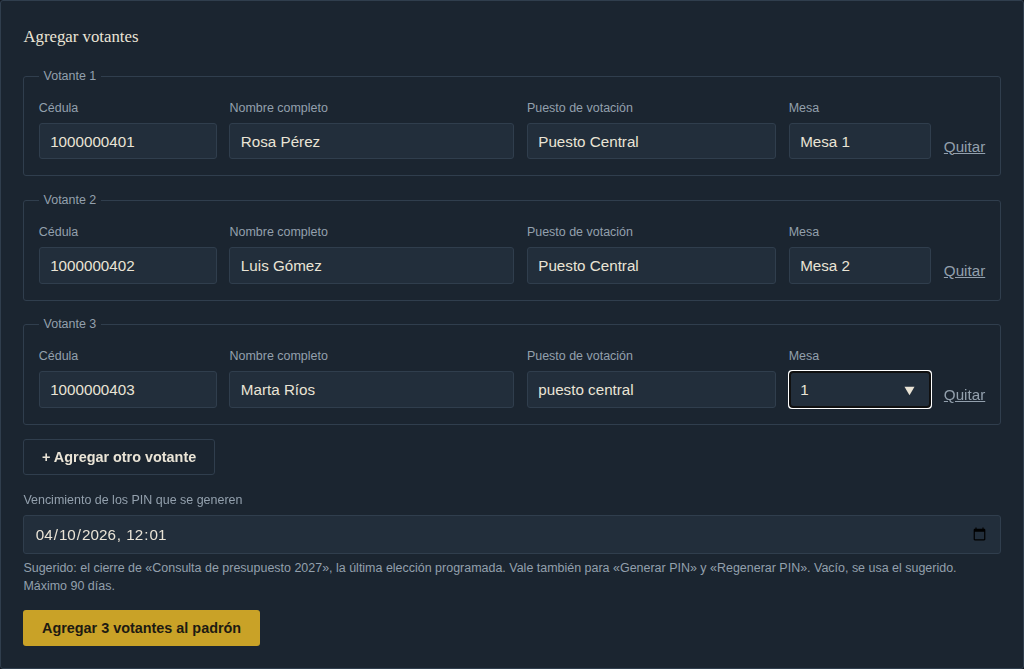
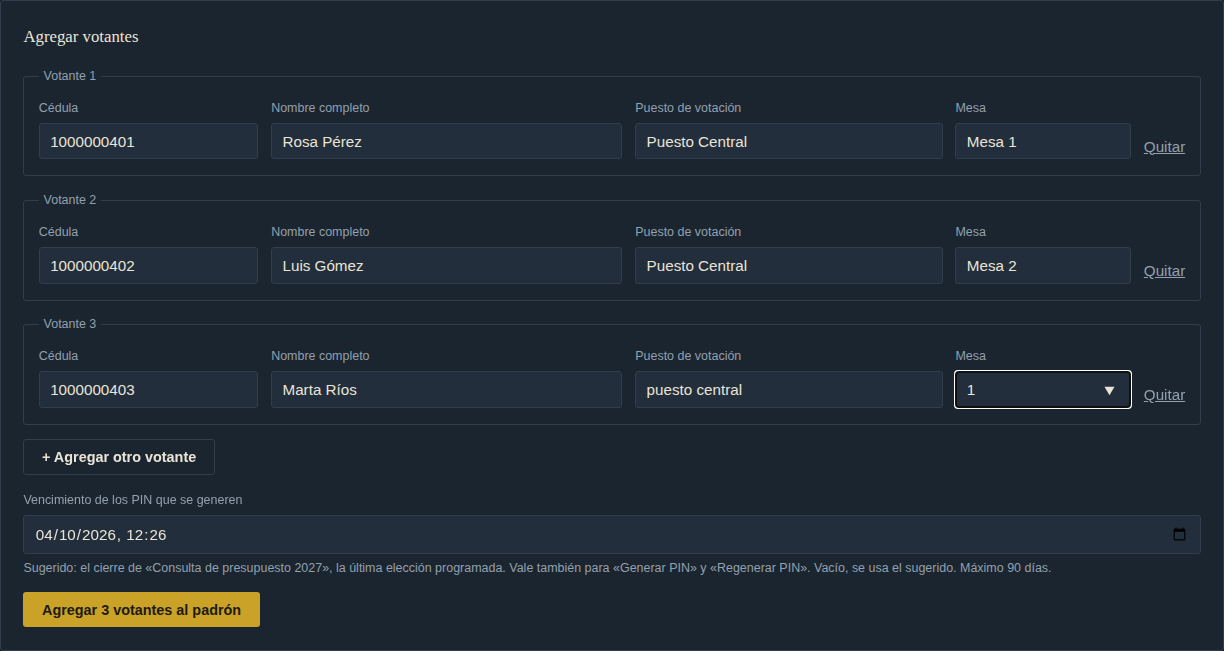
Padron mas ancho, con una columna por accion
- La pestana Padron usa hasta 1440 px de ancho (las demas siguen en
  1080): cada votante entra en una sola linea.
- Regenerar PIN, Restablecer autenticador y Eliminar van cada uno en su
  columna, bajo el titulo Acciones: quedan alineados en todas las filas,
  aunque a un votante le falte alguna (asistido o sin autenticador).
- Comprobado en un navegador real a 1280, 1366 y 1920 px; capturas 11 y
  13 rehechas.

diff --git a/services/frontend/src/pages/AdminDashboard.jsx b/services/frontend/src/pages/AdminDashboard.jsx
@@ -37,7 +37,8 @@ export default function AdminDashboard({ session, onLogout }) {
         ))}
       </div>
 
-      <div className="content">
+      {/* El Padrón tiene la tabla más ancha: usa más pantalla para no apretarla. */}
+      <div className={`content${tab === 'voters' ? ' content-ancho' : ''}`}>
         {tab === 'overview' && <OverviewTab session={session} />}
         {tab === 'templates' && <TemplatesTab session={session} />}
         {tab === 'elections' && <ElectionsTab session={session} />}
@@ -1315,7 +1316,12 @@ function VotersTab({ session }) {
           <>
             <div className="tabla-desplazable">
               <table className="table">
-                <thead><tr><th>Cédula</th><th>Nombre</th><th>Puesto</th><th>Mesa</th><th>PIN</th><th>Autenticador</th><th>Voto asistido</th><th></th></tr></thead>
+                <thead>
+                  <tr>
+                    <th>Cédula</th><th>Nombre</th><th>Puesto</th><th>Mesa</th><th>PIN</th><th>Autenticador</th><th>Voto asistido</th>
+                    <th colSpan={3} className="acciones-titulo">Acciones</th>
+                  </tr>
+                </thead>
                 <tbody>
                   {voters.map((v) => (
                     <tr key={v.id}>
@@ -1334,20 +1340,24 @@ function VotersTab({ session }) {
                           onChange={(e) => setAssisted(v, e.target.checked)}
                         />
                       </td>
-                      <td>
-                        <div className="acciones-padron">
-                          <button className="btn btn-outline" disabled={resettingId === v.id} onClick={() => resetPin(v.id)}>
-                            {resettingId === v.id ? 'Generando…' : v.has_pin ? 'Regenerar PIN' : 'Generar PIN'}
+                      {/* Una columna por acción: así cada una queda alineada en
+                          todas las filas, aunque a un votante le falte alguna. */}
+                      <td className="accion">
+                        <button className="btn btn-outline" disabled={resettingId === v.id} onClick={() => resetPin(v.id)}>
+                          {resettingId === v.id ? 'Generando…' : v.has_pin ? 'Regenerar PIN' : 'Generar PIN'}
+                        </button>
+                      </td>
+                      <td className="accion">
+                        {v.has_totp && !v.assisted && (
+                          <button className="btn btn-outline" disabled={savingId === v.id} onClick={() => resetTotp(v)}>
+                            Restablecer autenticador
                           </button>
-                          {v.has_totp && !v.assisted && (
-                            <button className="btn btn-outline" disabled={savingId === v.id} onClick={() => resetTotp(v)}>
-                              Restablecer autenticador
-                            </button>
-                          )}
-                          <button className="btn btn-danger-outline" disabled={savingId === v.id} onClick={() => remove(v)}>
-                            Eliminar
-                          </button>
-                        </div>
+                        )}
+                      </td>
+                      <td className="accion">
+                        <button className="btn btn-danger-outline" disabled={savingId === v.id} onClick={() => remove(v)}>
+                          Eliminar
+                        </button>
                       </td>
                     </tr>
                   ))}

diff --git a/services/frontend/src/styles.css b/services/frontend/src/styles.css
@@ -242,6 +242,11 @@ input, select, textarea {
 .acciones-padron { display: flex; flex-wrap: nowrap; gap: 0.4rem; align-items: center; }
 .acciones-padron .btn { white-space: nowrap; padding: 0.35rem 0.7rem; font-size: 0.8rem; }
 .tabla-desplazable { overflow-x: auto; }
+.content.content-ancho { max-width: 1440px; }
+/* Padrón: cada acción en su columna, alineada en todas las filas */
+.table td.accion { white-space: nowrap; padding-left: 0.25rem; padding-right: 0.25rem; }
+.table td.accion .btn { padding: 0.35rem 0.7rem; font-size: 0.8rem; }
+.table th.acciones-titulo { padding-left: 0.25rem; }
 .editar-mesa { min-width: 280px; }
 
 /* Padrón: una fila del formulario por votante, y los filtros del listado */
